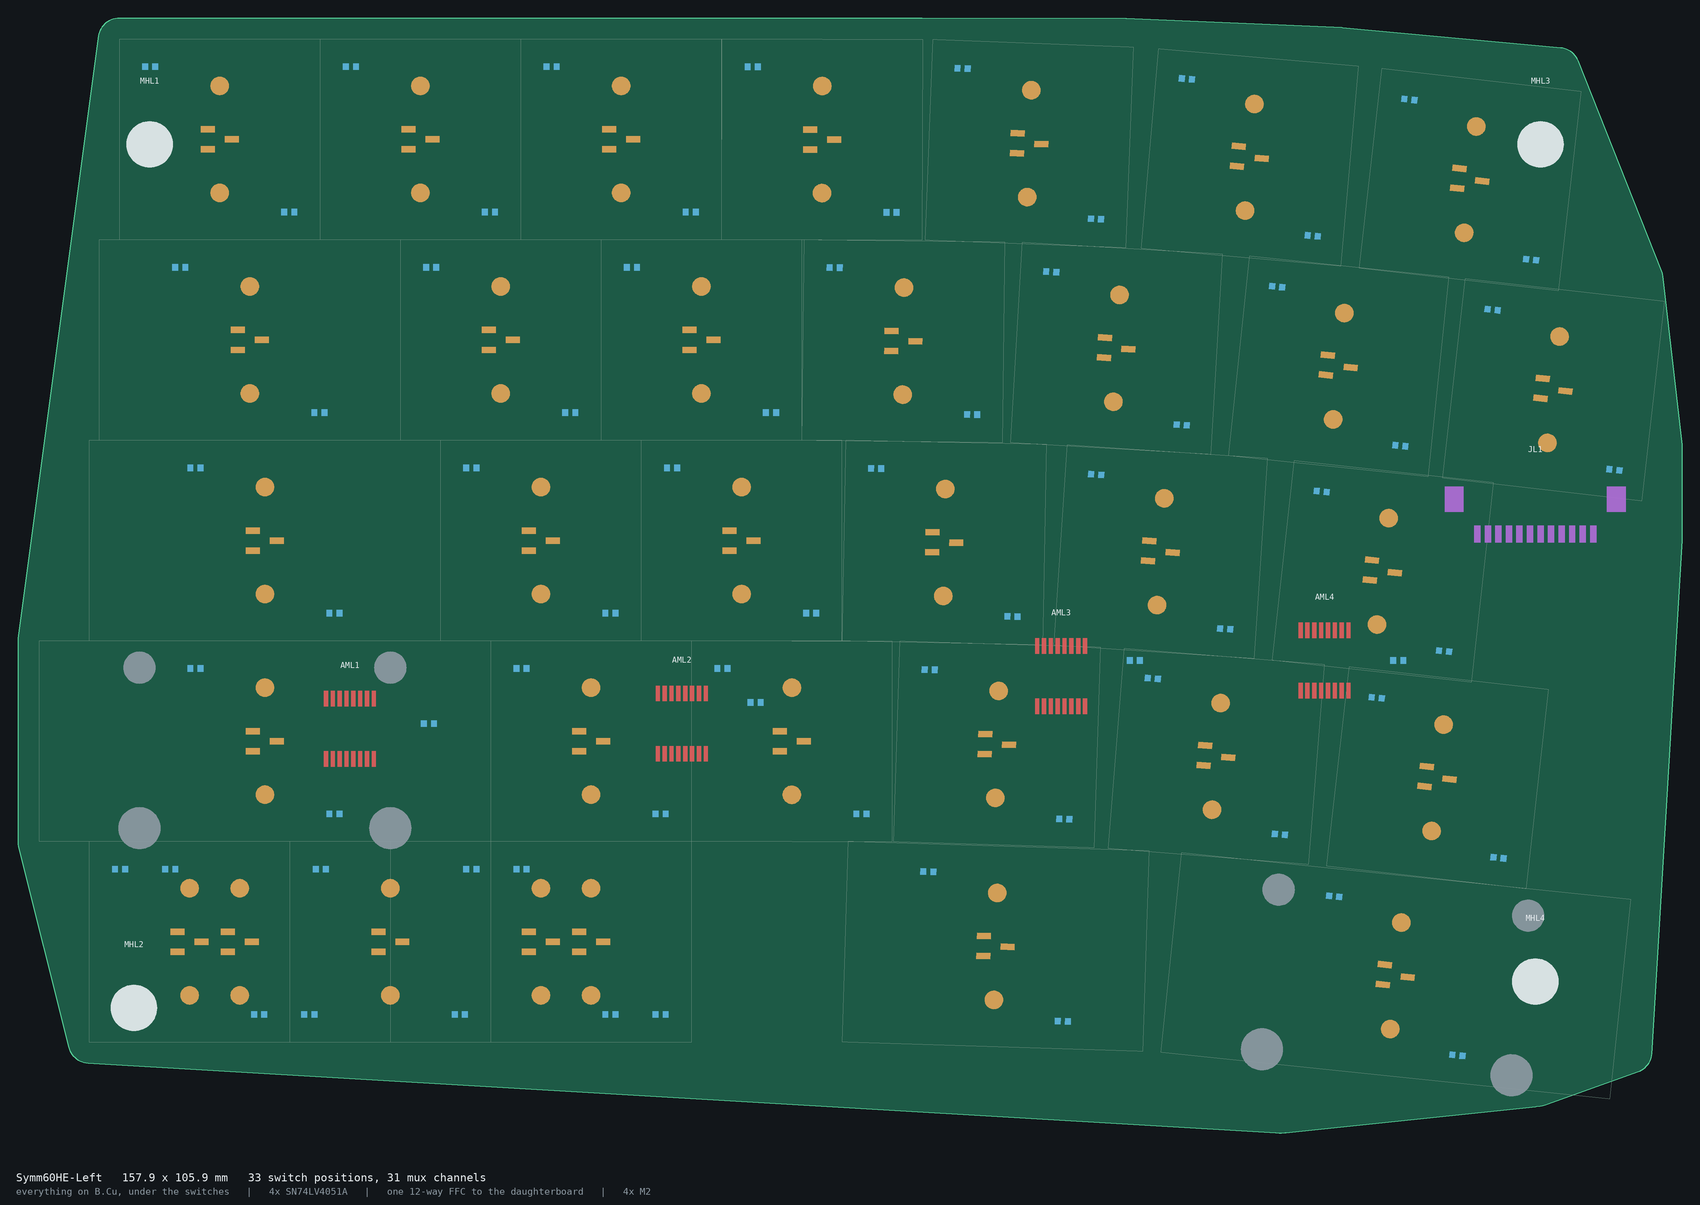
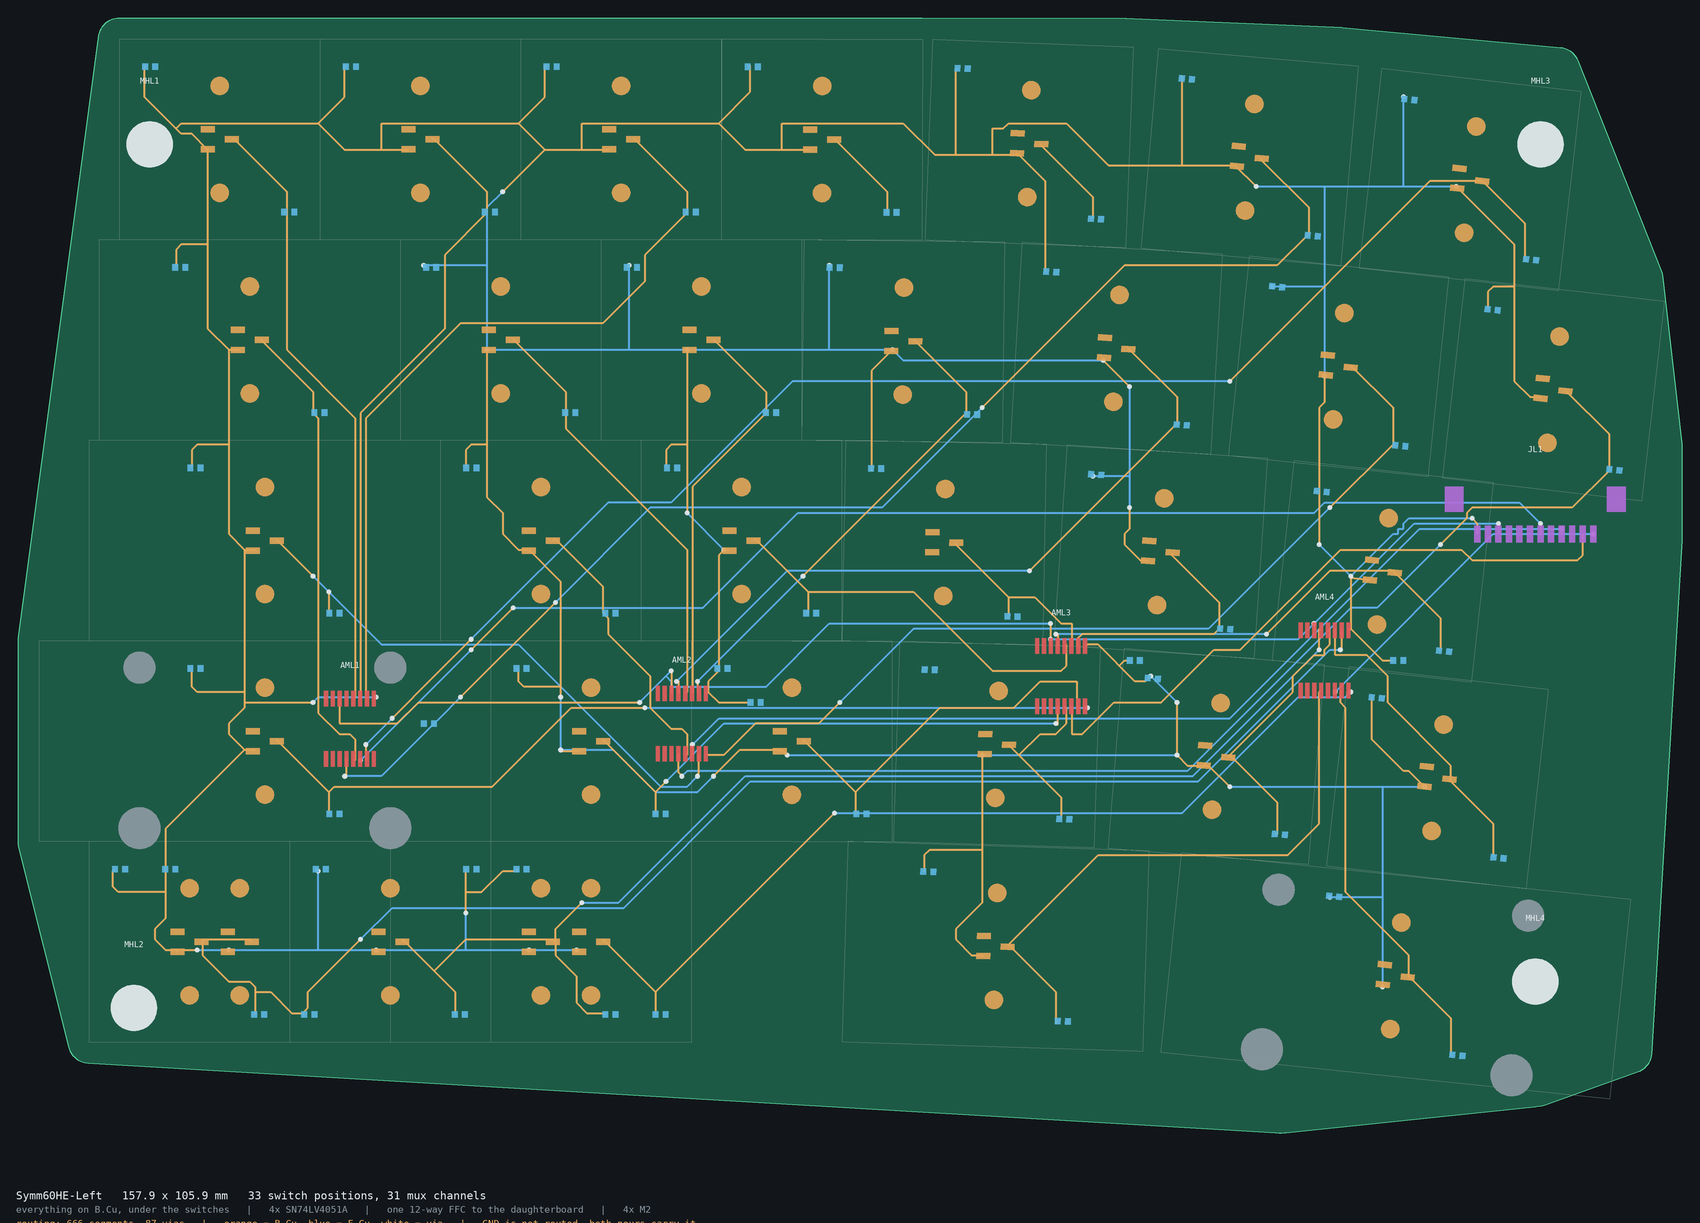
Draw the copper in the board images; make route.py idempotent
The board renders showed pads and outlines but not a single trace, which
made them useless for looking at the thing the last commit was about.  They
now draw segments and vias: orange for B.Cu, blue for F.Cu, white for a via,
back layer under front, with the segment and via counts in the caption.

route.py appended its output to whatever was already in the file, so running
it twice laid a second set of traces over the first -- harmless inside
build.sh, which regenerates the boards first, and a trap anywhere else.  It
now drops existing segments, vias and zones before writing, and two
consecutive passes give byte-identical counts.

Also: the USB-C keep-out is blocked with a trace-width margin rather than
flush, so copper no longer runs along its edge; daughterboard reference
labels are kept on the board when a part is against the top edge; and the
image footers are tall enough for the extra caption line.

Claude-Session: https://claude.ai/code/session_011Ybs7TZ7cstPLN6MToSVF3

diff --git a/tools/img_boards.py b/tools/img_boards.py
@@ -27,12 +27,13 @@ print("assembly", c.save("01-assembly.png"))
 for nm, pcb, title in (("02-left.png", "../pcb/Symm60HE-Left.kicad_pcb", "Symm60HE-Left   157.9 x 105.9 mm   33 switch positions, 31 mux channels"),
                        ("03-right.png", "../pcb/Symm60HE-Right.kicad_pcb", "Symm60HE-Right   155.5 x 106.4 mm   36 switch positions, 32 mux channels")):
     ep = edge_poly(pcb)
-    c = Canvas(ep.bounds, 1700, foot=54)
+    c = Canvas(ep.bounds, 1700, foot=72)
     c.poly(ep, fill=(29,90,70), outline=(87,211,154), w=1.0)
     half = "L" if "Left" in pcb else "R"
     hk = [k for k in KEYS if k["half"] == half]
     caps, cuts = key_shapes(hk)
     for cap in caps: c.poly(cap, outline=(120,150,135), w=0.5)
+    ns, nv = draw_copper(c, pcb)
     for ref, col, shapes, at in parts(pcb):
         for s in shapes: c.poly(s, fill=col+(235,))
         if ref.startswith(("AM","J","MH")):
@@ -40,20 +41,29 @@ for nm, pcb, title in (("02-left.png", "../pcb/Symm60HE-Left.kicad_pcb", "Symm60
     fy = c.im.height/SS - 34
     c.raw_text((16, fy), title, INK, 11)
     c.raw_text((16, fy+15), "everything on B.Cu, under the switches   |   4x SN74LV4051A   |   one 12-way FFC to the daughterboard   |   4x M2", DIM, 9.5)
+    c.raw_text((16, fy+29), "routing: %d segments, %d vias   |   orange = B.Cu, blue = F.Cu, white = via   |   GND is not routed, both pours carry it" % (ns, nv), (240,176,96), 9.5)
     print(nm, c.save(nm))
 
 # ------------------------------------------------------------- 4. daughterboard
 ep = edge_poly("../pcb/Symm60HE-Daughterboard.kicad_pcb")
-c = Canvas(ep.bounds, 1500, pad=26, foot=60)
+c = Canvas(ep.bounds, 1500, pad=26, foot=92)
 c.poly(ep, fill=(29,90,70), outline=(87,211,154), w=1.2)
+dns, dnv = draw_copper(c, "../pcb/Symm60HE-Daughterboard.kicad_pcb")
 for ref, col, shapes, at in parts("../pcb/Symm60HE-Daughterboard.kicad_pcb"):
     for s in shapes: c.poly(s, fill=col+(240,))
-    c.text((at[0], at[1]-7.5), ref, INK, 8.5, anchor="ma")
+    lo = min(s.bounds[1] for s in shapes)
+    # keep the label on the board -- parts up against the top edge have no
+    # room above them
+    if lo - 1.6 < ep.bounds[1] + 2.0:
+        c.text((at[0], max(s.bounds[3] for s in shapes) + 1.6), ref, INK, 8.5, anchor="ma")
+    else:
+        c.text((at[0], lo - 1.6), ref, INK, 8.5, anchor="md")
 ko = layer_poly("../pcb/Symm60HE-Daughterboard.kicad_pcb", "Dwgs.User")
 c.poly(ko, outline=(176,108,214), w=1.0)
-c.text((ko.centroid.x, ko.bounds[3]+2.0), "USB-C keep-out", (176,108,214), 8, anchor="ma")
-fy = c.im.height/SS - 44
+c.text((ko.centroid.x, ko.centroid.y), "USB-C keep-out", (176,108,214), 8, anchor="mm")
+fy = c.im.height/SS - 60
 c.raw_text((20, fy), "Symm60HE-Daughterboard   56 x 26 mm", INK, 12)
 c.raw_text((20, fy+16), "U1 AT32F405RCT7  |  U2 USBLC6  |  U3/U4 3V3 digital + analog LDOs  |  Y1 12 MHz  |  J2/J3 ribbon to each half", DIM, 9.5)
-c.raw_text((20, fy+30), "USB-C receptacle not placed — add Connector:USB_C_Receptacle_HRO_TYPE-C-31-M-12 at the keep-out", (224,164,88), 9.5)
+c.raw_text((20, fy+30), "routing: %d segments, %d vias — partial; the LQFP-64 pinout is a placeholder until there are schematics" % (dns, dnv), (240,176,96), 9.5)
+c.raw_text((20, fy+44), "USB-C receptacle not placed — add Connector:USB_C_Receptacle_HRO_TYPE-C-31-M-12 at the keep-out", (224,164,88), 9.5)
 print("daughterboard", c.save("04-daughterboard.png"))

diff --git a/tools/img.py b/tools/img.py
@@ -89,6 +89,36 @@ def parts(pcb):
         out.append((ref, COL.get(pre, COL.get(ref[:1], (136,136,136))), shapes, (x,y)))
     return out
 
+CU_COL = {"B.Cu": (240, 176, 96), "F.Cu": (96, 176, 240)}
+VIA_COL = (226, 232, 238)
+
+def copper(pcb):
+    """Routed segments and vias, as (layer, shapely geometry) pairs."""
+    b = loads(open(pcb).read())
+    segs, vias = [], []
+    for s in find(b, "segment"):
+        a, c = first(s, "start"), first(s, "end")
+        w = float(first(s, "width")[1])
+        segs.append((first(s, "layer")[1],
+                     (float(a[1]), float(a[2])), (float(c[1]), float(c[2])), w))
+    for v in find(b, "via"):
+        a = first(v, "at")
+        vias.append((float(a[1]), float(a[2]), float(first(v, "size")[1])/2))
+    return segs, vias
+
+def draw_copper(c, pcb, alpha=235):
+    """Traces first, then vias on top, back layer under front."""
+    segs, vias = copper(pcb)
+    for want in ("F.Cu", "B.Cu"):
+        for lay, a, e, w in segs:
+            if lay != want: continue
+            c.d.line([c.p(a), c.p(e)], fill=CU_COL[lay] + (alpha,),
+                     width=max(1, int(w * c.s)))
+    for x, y, r in vias:
+        p = c.p((x, y)); rr = max(1.5, r * c.s)
+        c.d.ellipse([p[0]-rr, p[1]-rr, p[0]+rr, p[1]+rr], fill=VIA_COL + (alpha,))
+    return len(segs), len(vias)
+
 def layer_poly(pcb, layer="Edge.Cuts"):
     b = loads(open(pcb).read())
     segs = [(( float(first(l,"start")[1]), float(first(l,"start")[2])),

diff --git a/tools/route.py b/tools/route.py
@@ -241,7 +241,7 @@ def plan(pads, outline, step, order, keepout=None):
     grid = Grid(outline, step=step)
     space = Space()
     if keepout is not None:
-        grid.block(keepout, net="#", margin=0.0)
+        grid.block(keepout, net="#", margin=PAD_MARGIN)
         space.add(keepout, "#keepout", (0, 1))
     for p in pads:
         grid.block(p["geom"], net=p["net"] if p["net"] else "#", layers=pad_layers(p))
@@ -322,7 +322,10 @@ def route_board(path, label, step=GRID, tries=1, seed=7):
     added = list(added)
     added.append(zone(outline, "GND", "F.Cu"))
     added.append(zone(outline, "GND", "B.Cu"))
-    body = list(b[1:])
+    # drop any copper from an earlier pass, so running this twice replaces the
+    # routing instead of laying a second set of traces on top of the first
+    body = [c for c in b[1:]
+            if not (isinstance(c, list) and c[0] in ("segment", "via", "zone", "arc"))]
     open(path, "w").write(dumps([Sym("kicad_pcb")] + body[:-1] + added + [body[-1]]) + "\n")
     return done, failed, fails, len([a for a in added if a[0] == "segment"]), nvia
 
